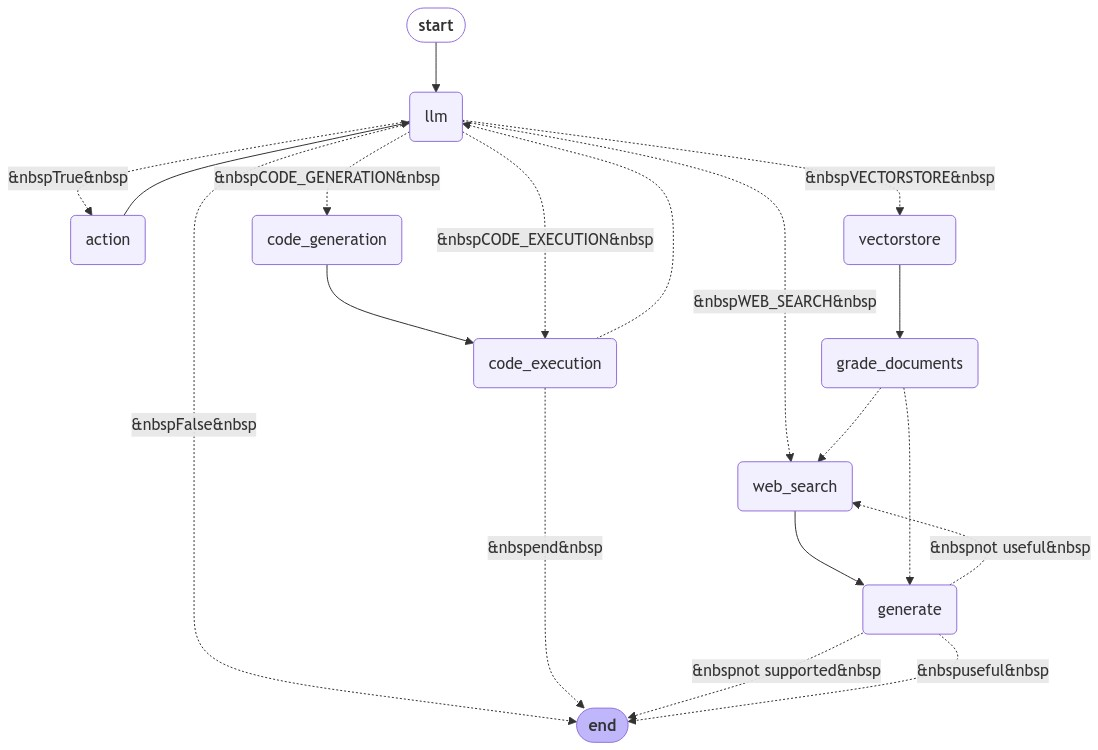
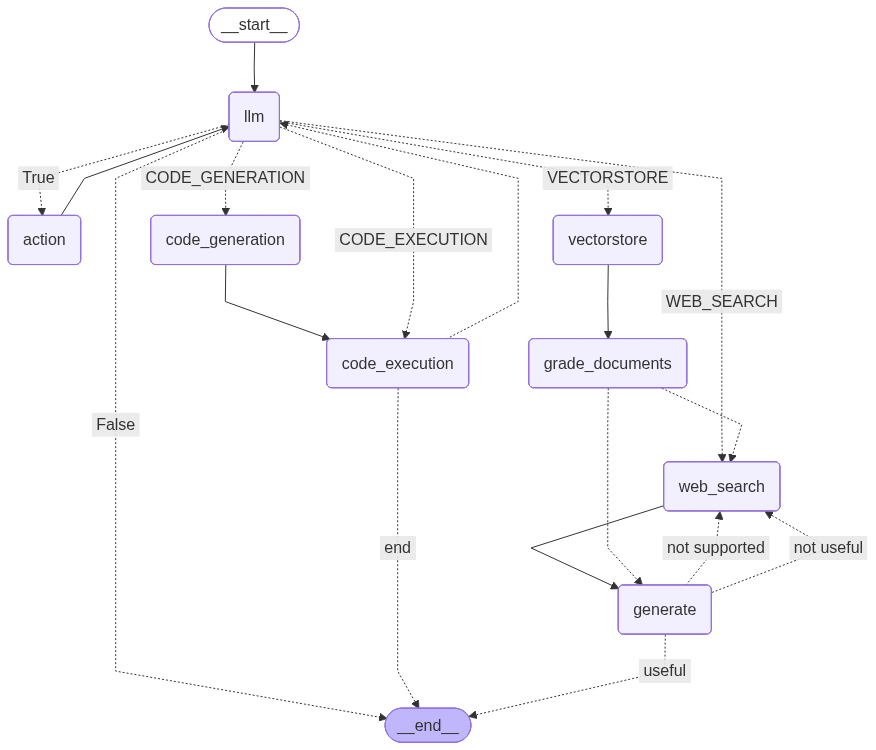
提交

diff --git a/jqcode/langgraph_in_class.py b/jqcode/langgraph_in_class.py
@@ -2073,7 +2073,7 @@ if __name__ == "__main__":
         "你是谁？请详细介绍一下你自己"
         "你装备了哪些工具？",
         "我现在的位置是在安徽晶奇网络科技股份有限公司附近，请查询15公里范围内的养老机构",
-        "我现在的位置是在安徽晶奇网络科技股份有限公司附近，请查询15公里范围内的养老机构。并将结果通过python转换成excel文件，提供http的网络下载地址"
+        "我现在的位置是在安徽晶奇网络科技股份有限公司附近，请查询15公里范围内的养老机构。并将查询到的养老机构名称通过python转换成excel文件，提供http的网络下载地址"
         "晶奇公司质量保证过程中的角色及角色的职责或含义解释，对应的人员（姓名）有哪些?其中的批准人是谁？",
         '你好，我的名字是张结魁，我是安徽晶奇网络科技股份有限公司的，请记住我的信息',
         '请搜索我与晶奇公司的相关网页，说明我与晶奇公司的关系',
